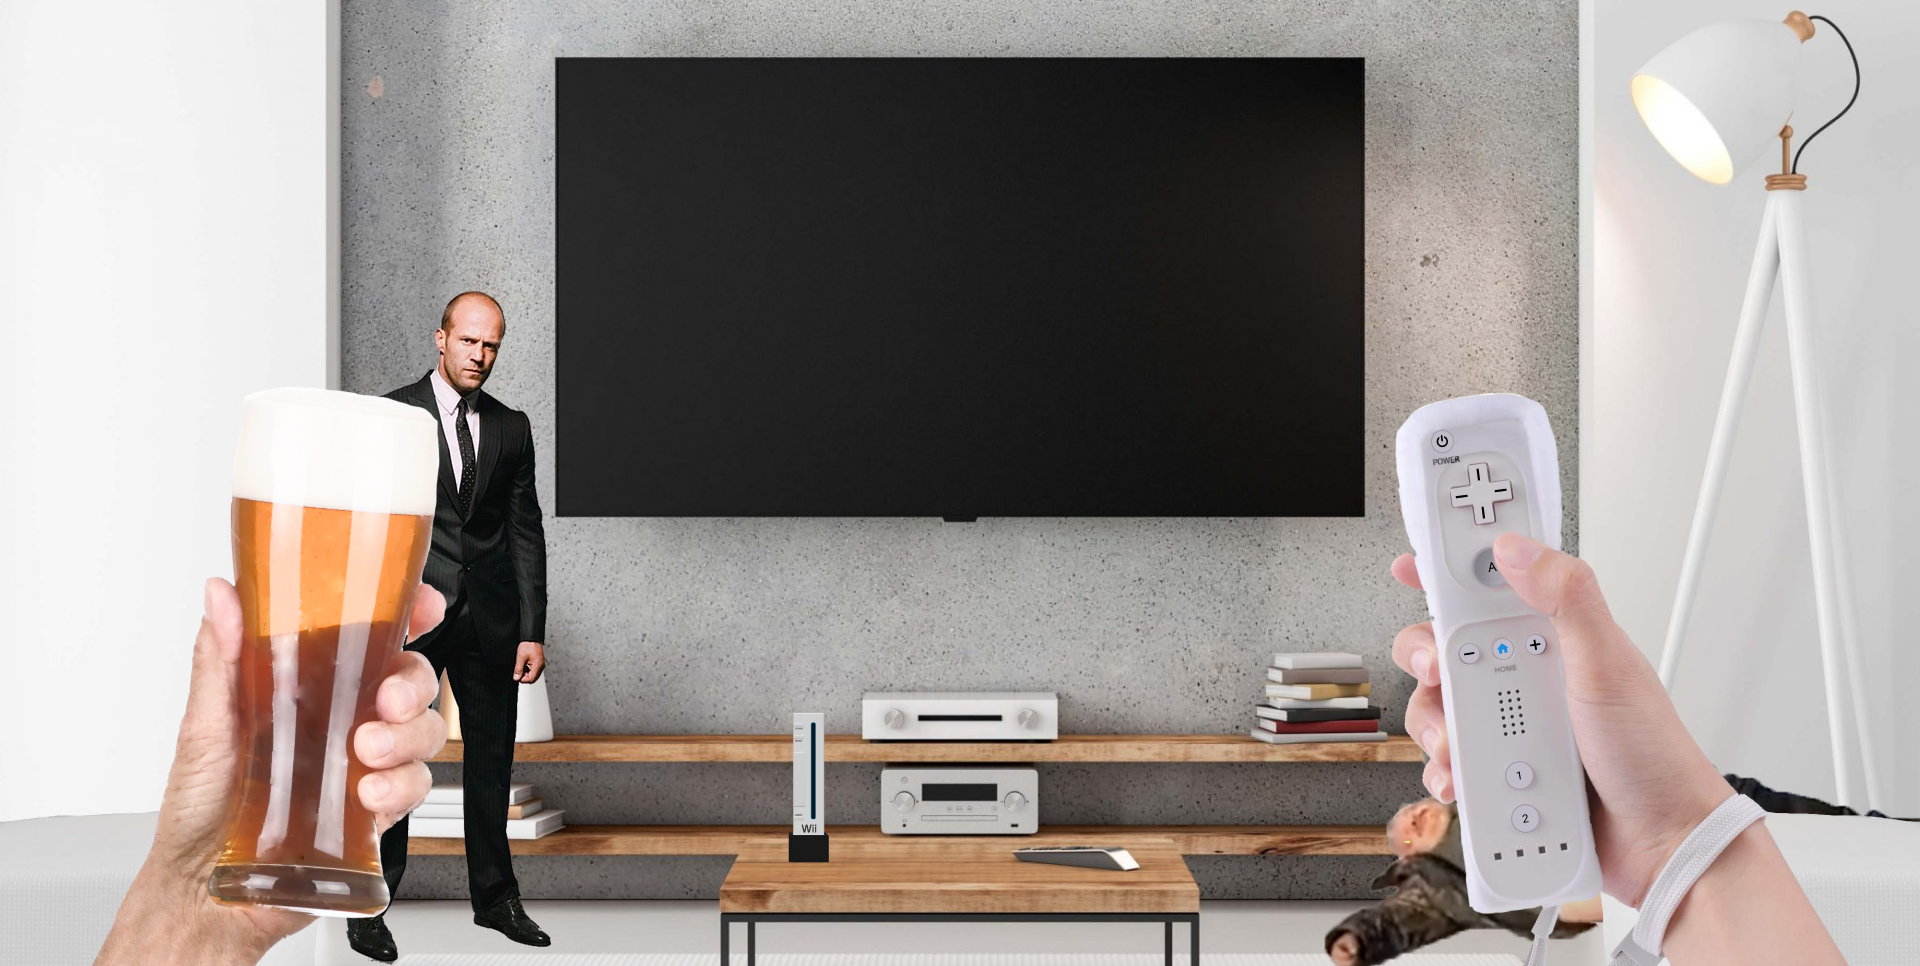
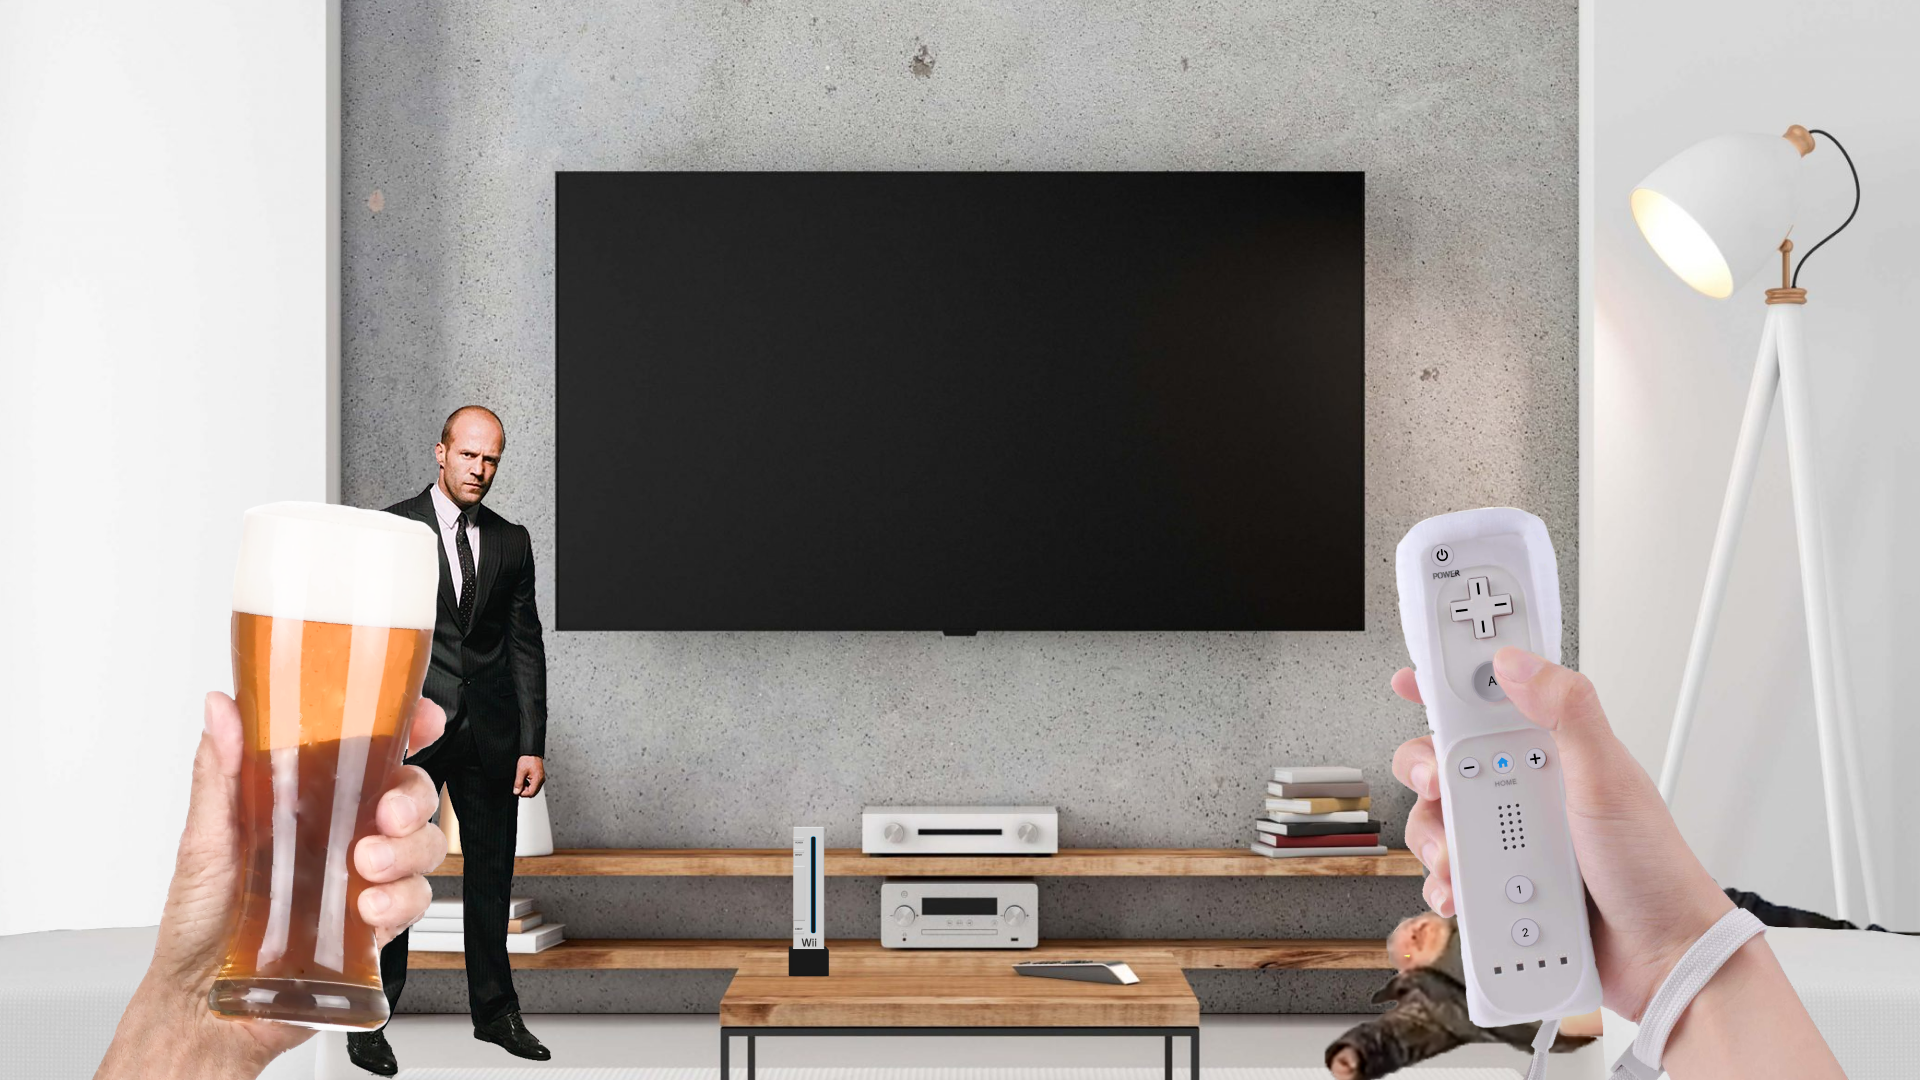
снова пофикссил экран и пульт ыаыа

diff --git a/src/components/pult.jsx b/src/components/pult.jsx
@@ -15,26 +15,31 @@ function Pult() {
 
     return (
         <>
-            <div className="pult-container transform translate-x-[1450px] translate-y-[413px] w-[140px] rotate-[-9deg]">
-                <img className={'palec absolute transform translate-x-[41px] translate-y-[105px]  z-[2]'} src={palec} alt="plus"/>
+            <div className="pult-container absolute left-[1451px] top-[495px] rotate-[-9deg] ">
+
                 <img className={'btnstart cursor-pointer'} src={btnstart} alt="btnstart"/>
-
-                <img className={'bigbtn relative top-[98px] left-[19px] cursor-pointer z-[1]'} src={bigbtn} alt="bigbtn"/>
-                <img className={'home relative top-[149px] left-[27px] cursor-pointer'} src={home} alt="home"/>
-                <img className={'keyone relative top-[250px] left-[20px] cursor-pointer'} src={keyone} alt="keyone"/>
-                <img className={'keytwo relative top-[263px] left-[20px] cursor-pointer'} src={keytwo} alt="keytwo"/>
-                <img className={'krestovina relative top-[-85px] left-[12px] rotate-[2deg] cursor-pointer'}
-                     src={krestovina} alt="krestovina"/>
-                <img className={'krestovina relative top-[-105px] left-[49px] rotate-[2deg] cursor-pointer'}
-                     src={krestovina} alt="krestovina"/>
-                <img className={'krestovina relative top-[-109px] left-[30px] rotate-[90deg] cursor-pointer'}
-                     src={krestovina} alt="krestovina"/>
-                <img className={'krestovina relative top-[-167px] left-[31px] rotate-[-90deg] cursor-pointer'}
-                     src={krestovina} alt="krestovina"/>
-                <img className={'minus relative top-[-16px] left-[-6px] cursor-pointer'} src={minus} alt="minus"/>
-                <img className={'plus relative top-[-35px] left-[61px] cursor-pointer'} src={plus} alt="plus"/>
+                <img className={'bigbtn relative top-[90px] left-[22px] z-[1] cursor-pointer'} src={bigbtn}
+                     alt="bigbtn"/>
+                <img className={'home relative top-[135px] left-[30px] cursor-pointer'} src={home} alt="home"/>
+                <img className={'keyone relative top-[225px] left-[25px] cursor-pointer'} src={keyone} alt="keyone"/>
+                <img className={'keytwo relative top-[236px] left-[24px] cursor-pointer'} src={keytwo} alt="keytwo"/>
+                <img className={'krestovina relative top-[-89px] left-[12px] rotate-[2deg] cursor-pointer'}
+                     src={krestovina}
+                     alt="krestovina"/>
+                <img className={'krestovina relative top-[-108px] left-[49px] rotate-[2deg] cursor-pointer'}
+                     src={krestovina}
+                     alt="krestovina"/>
+                <img className={'krestovina relative top-[-115px] left-[30px] rotate-[90deg] cursor-pointer'}
+                     src={krestovina}
+                     alt="krestovina"/>
+                <img className={'krestovina relative top-[-169px] left-[31px] rotate-[-90deg] cursor-pointer'}
+                     src={krestovina}
+                     alt="krestovina"/>
+                <img className={'minus relative top-[-30px] left-[-4px] cursor-pointer'} src={minus} alt="minus"/>
+                <img className={'plus relative top-[-50px] left-[63.3px] cursor-pointer'} src={plus} alt="plus"/>
             </div>
-
+            <img className={'palec absolute left-[1490px] top-[580px]  rotate-[-11deg] z-[2] '} src={palec}
+                 alt="plus"/>
 
         </>
     )

diff --git a/src/components/Screeonstart.jsx b/src/components/Screeonstart.jsx
@@ -9,7 +9,7 @@ function Screeonstart() {
     return (
         <>
             <div
-                className="screenonstart w-[792px] h-[456px] bg-gray-200 transform translate-x-[564px] translate-y-[65px]">
+                className="screenonstart w-[792px] h-[456px] bg-gray-200 transform translate-x-[564px] translate-y-[165px]">
                 <div className={"screen-block pt-[25px] flex flex-wrap justify-between px-[70px] gap-[10px]"}>
                     <img className={'card w-[154px] h-[91px] '} src={fonepustcard}/>
                     <img className={'card w-[154px] h-[91px] '} src={fonepustcard}/>

diff --git a/src/index.css b/src/index.css
@@ -7,7 +7,7 @@
 
   color-scheme: light dark;
   color: rgba(255, 255, 255, 0.87);
-  background-color: #242424;
+
 
   font-synthesis: none;
   text-rendering: optimizeLegibility;
@@ -31,11 +31,12 @@ a:hover {
 body {
   margin: 0;
 
-
-width: 100vw;
-  height: 100vh;
   background: url("./src/assets/bg.png");
-  background-size: 100vw 100vh;
+  background-color: #242424;
+  background-size: 100% 100%;
+  height: 991px;
+  background-repeat: no-repeat;
+
 }
 
 h1 {

diff --git a/src/App.css b/src/App.css
@@ -50,3 +50,7 @@
 .read-the-docs {
   color: #888;
 }
+
+
+
+
